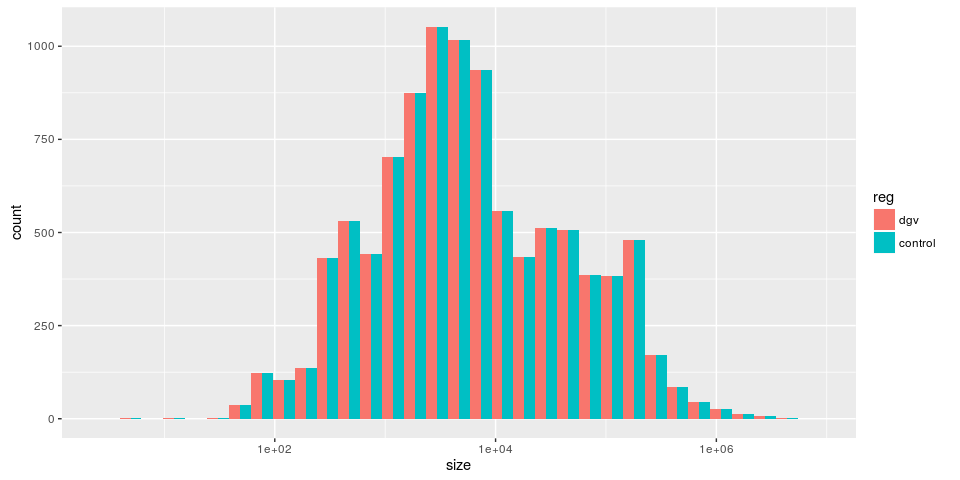
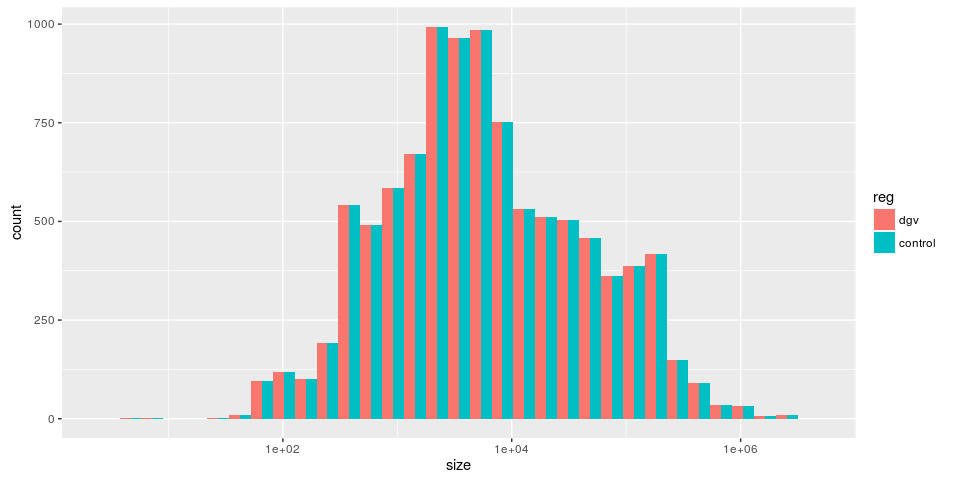
title and typos

diff --git a/docs/ConstructingControlRegions.md b/docs/ConstructingControlRegions.md
@@ -1,3 +1,6 @@
+Constructing control regions for enrichment analysis
+====================================================
+
 Introduction
 ------------
 
@@ -14,7 +17,42 @@ First we load the package and retrieve some annotations to play with.
 
 ``` {.r}
 library(PopSV)
+```
+
+    ## Warning: replacing previous import by 'data.table::shift' when loading
+    ## 'PopSV'
+
+``` {.r}
 library(AnnotationHub)
+```
+
+    ## Loading required package: BiocGenerics
+
+    ## Loading required package: parallel
+
+    ## 
+    ## Attaching package: 'BiocGenerics'
+
+    ## The following objects are masked from 'package:parallel':
+    ## 
+    ##     clusterApply, clusterApplyLB, clusterCall, clusterEvalQ,
+    ##     clusterExport, clusterMap, parApply, parCapply, parLapply,
+    ##     parLapplyLB, parRapply, parSapply, parSapplyLB
+
+    ## The following objects are masked from 'package:stats':
+    ## 
+    ##     IQR, mad, xtabs
+
+    ## The following objects are masked from 'package:base':
+    ## 
+    ##     anyDuplicated, append, as.data.frame, as.vector, cbind,
+    ##     colnames, do.call, duplicated, eval, evalq, Filter, Find, get,
+    ##     grep, grepl, intersect, is.unsorted, lapply, lengths, Map,
+    ##     mapply, match, mget, order, paste, pmax, pmax.int, pmin,
+    ##     pmin.int, Position, rank, rbind, Reduce, rownames, sapply,
+    ##     setdiff, sort, table, tapply, union, unique, unlist, unsplit
+
+``` {.r}
 ah = AnnotationHub()
 ```
 
@@ -22,11 +60,16 @@ ah = AnnotationHub()
 
 ``` {.r}
 genes = ah[["AH49010"]] ## Genes
+```
+
+    ## require("GenomicRanges")
+
+``` {.r}
 dgv = ah[["AH5120"]] ## SVs from DGV
 dgv = dgv[sample.int(length(dgv), 1e4)] ## Reduce to 10K random SVs
 ```
 
-We imported a gene annotation and 10 thousands SVs from DGV. If we want to construct controls regions that fit the SV size and overlap with genes, we run:
+We imported a gene annotation and 10 thousands SVs from DGV. If we want to construct control regions that fit the SV size and overlap with genes, we run:
 
 ``` {.r}
 dgv.cont = draw.controls(dgv, list(gene=genes), chr.prefix="chr")
@@ -54,15 +97,15 @@ ggplot(size.df, aes(x=size, fill=reg)) + geom_histogram(position="dodge") + scal
 mean(overlapsAny(dgv, genes))
 ```
 
-    ## [1] 0.4072
+    ## [1] 0.3991
 
 ``` {.r}
 mean(overlapsAny(dgv.cont, genes))
 ```
 
-    ## [1] 0.4091
+    ## [1] 0.3995
 
-`draw.controls` functions can accept any number of genomic features to control. Let's import two additional genomic annotation that we would like to control for our enrichment analysis: assembly gaps and segmental duplications.
+`draw.controls` functions can **accept any number of genomic features to control**. Let's import two additional genomic annotation that we would like to control for our enrichment analysis: assembly gaps and segmental duplications.
 
 ``` {.r}
 gap = ah[["AH6444"]]
@@ -70,7 +113,7 @@ segdups = ah[["AH5121"]]
 dgv.cont2 = draw.controls(dgv, list(gene=genes, gap=gap, sd=segdups), chr.prefix="chr")
 ```
 
-Again, the size distribution must be the same
+Again, the size distribution must be the same:
 
 ``` {.r}
 ## Same size distribution ?
@@ -93,51 +136,51 @@ ggplot(size.df, aes(x=size, fill=reg)) + geom_histogram(position="dodge") + scal
 mean(overlapsAny(dgv, genes))
 ```
 
-    ## [1] 0.4072
+    ## [1] 0.3991
 
 ``` {.r}
 mean(overlapsAny(dgv.cont2, genes))
 ```
 
-    ## [1] 0.4111
+    ## [1] 0.4007
 
 ``` {.r}
 mean(overlapsAny(dgv, gap))
 ```
 
-    ## [1] 0.008
+    ## [1] 0.0072
 
 ``` {.r}
 mean(overlapsAny(dgv.cont2, gap))
 ```
 
-    ## [1] 0.0081
+    ## [1] 0.0073
 
 ``` {.r}
 mean(overlapsAny(dgv, segdups))
 ```
 
-    ## [1] 0.2085
+    ## [1] 0.2053
 
 ``` {.r}
 mean(overlapsAny(dgv.cont2, segdups))
 ```
 
-    ## [1] 0.2063
+    ## [1] 0.2038
 
-If we had used the first set of control regions, taking only genes into account, the gap and segmental duplication overlap proportions wouldn't match.
+If we had used the first set of control regions (only genes overlap control) the gap and segmental duplication overlap proportions wouldn't match.
 
 ``` {.r}
 mean(overlapsAny(dgv.cont, segdups))
 ```
 
-    ## [1] 0.0885
+    ## [1] 0.0871
 
 ``` {.r}
 mean(overlapsAny(dgv.cont, gap))
 ```
 
-    ## [1] 0.1006
+    ## [1] 0.1097
 
 R session
 ---------
@@ -163,34 +206,33 @@ sessionInfo()
     ## [8] methods   base     
     ## 
     ## other attached packages:
-    ##  [1] ggplot2_2.0.0        GenomicRanges_1.22.3 GenomeInfoDb_1.6.1  
-    ##  [4] IRanges_2.4.6        S4Vectors_0.8.7      AnnotationHub_2.2.3 
-    ##  [7] BiocGenerics_0.16.1  BiocInstaller_1.20.1 PopSV_1.0           
-    ## [10] rmarkdown_0.9.2     
+    ## [1] ggplot2_2.0.0        GenomicRanges_1.22.3 GenomeInfoDb_1.6.1  
+    ## [4] IRanges_2.4.6        S4Vectors_0.8.7      AnnotationHub_2.2.3 
+    ## [7] BiocGenerics_0.16.1  PopSV_1.0            rmarkdown_0.9.2     
     ## 
     ## loaded via a namespace (and not attached):
     ##  [1] Rcpp_0.12.3                       plyr_1.8.3                       
     ##  [3] futile.logger_1.4.1               compiler_3.2.3                   
-    ##  [5] formatR_1.2.1                     XVector_0.10.0                   
-    ##  [7] futile.options_1.0.0              bitops_1.0-6                     
-    ##  [9] tools_3.2.3                       zlibbioc_1.16.0                  
-    ## [11] digest_0.6.9                      gtable_0.1.2                     
-    ## [13] RSQLite_1.0.0                     evaluate_0.8                     
-    ## [15] BSgenome_1.38.0                   shiny_0.13.0                     
-    ## [17] DBI_0.3.1                         curl_0.9.4                       
-    ## [19] yaml_2.1.13                       rtracklayer_1.30.1               
-    ## [21] httr_1.0.0                        stringr_1.0.0                    
-    ## [23] knitr_1.12                        Biostrings_2.38.3                
-    ## [25] grid_3.2.3                        data.table_1.9.6                 
-    ## [27] Biobase_2.30.0                    R6_2.1.1                         
-    ## [29] BSgenome.Hsapiens.UCSC.hg19_1.4.0 AnnotationDbi_1.32.3             
-    ## [31] XML_3.98-1.3                      BiocParallel_1.4.3               
-    ## [33] lambda.r_1.1.7                    magrittr_1.5                     
-    ## [35] scales_0.3.0                      GenomicAlignments_1.6.3          
-    ## [37] Rsamtools_1.22.0                  htmltools_0.3                    
-    ## [39] SummarizedExperiment_1.0.2        colorspace_1.2-6                 
-    ## [41] mime_0.4                          interactiveDisplayBase_1.8.0     
-    ## [43] xtable_1.8-0                      httpuv_1.3.3                     
-    ## [45] labeling_0.3                      stringi_1.0-1                    
-    ## [47] munsell_0.4.2                     RCurl_1.95-4.7                   
-    ## [49] chron_2.3-47
+    ##  [5] BiocInstaller_1.20.1              formatR_1.2.1                    
+    ##  [7] XVector_0.10.0                    futile.options_1.0.0             
+    ##  [9] bitops_1.0-6                      tools_3.2.3                      
+    ## [11] zlibbioc_1.16.0                   digest_0.6.9                     
+    ## [13] gtable_0.1.2                      RSQLite_1.0.0                    
+    ## [15] evaluate_0.8                      BSgenome_1.38.0                  
+    ## [17] shiny_0.13.0                      DBI_0.3.1                        
+    ## [19] curl_0.9.4                        yaml_2.1.13                      
+    ## [21] rtracklayer_1.30.1                httr_1.0.0                       
+    ## [23] stringr_1.0.0                     knitr_1.12                       
+    ## [25] Biostrings_2.38.3                 grid_3.2.3                       
+    ## [27] data.table_1.9.6                  Biobase_2.30.0                   
+    ## [29] R6_2.1.1                          BSgenome.Hsapiens.UCSC.hg19_1.4.0
+    ## [31] AnnotationDbi_1.32.3              XML_3.98-1.3                     
+    ## [33] BiocParallel_1.4.3                lambda.r_1.1.7                   
+    ## [35] magrittr_1.5                      scales_0.3.0                     
+    ## [37] GenomicAlignments_1.6.3           Rsamtools_1.22.0                 
+    ## [39] htmltools_0.3                     SummarizedExperiment_1.0.2       
+    ## [41] colorspace_1.2-6                  mime_0.4                         
+    ## [43] interactiveDisplayBase_1.8.0      xtable_1.8-0                     
+    ## [45] httpuv_1.3.3                      labeling_0.3                     
+    ## [47] stringi_1.0-1                     munsell_0.4.2                    
+    ## [49] RCurl_1.95-4.7                    chron_2.3-47
